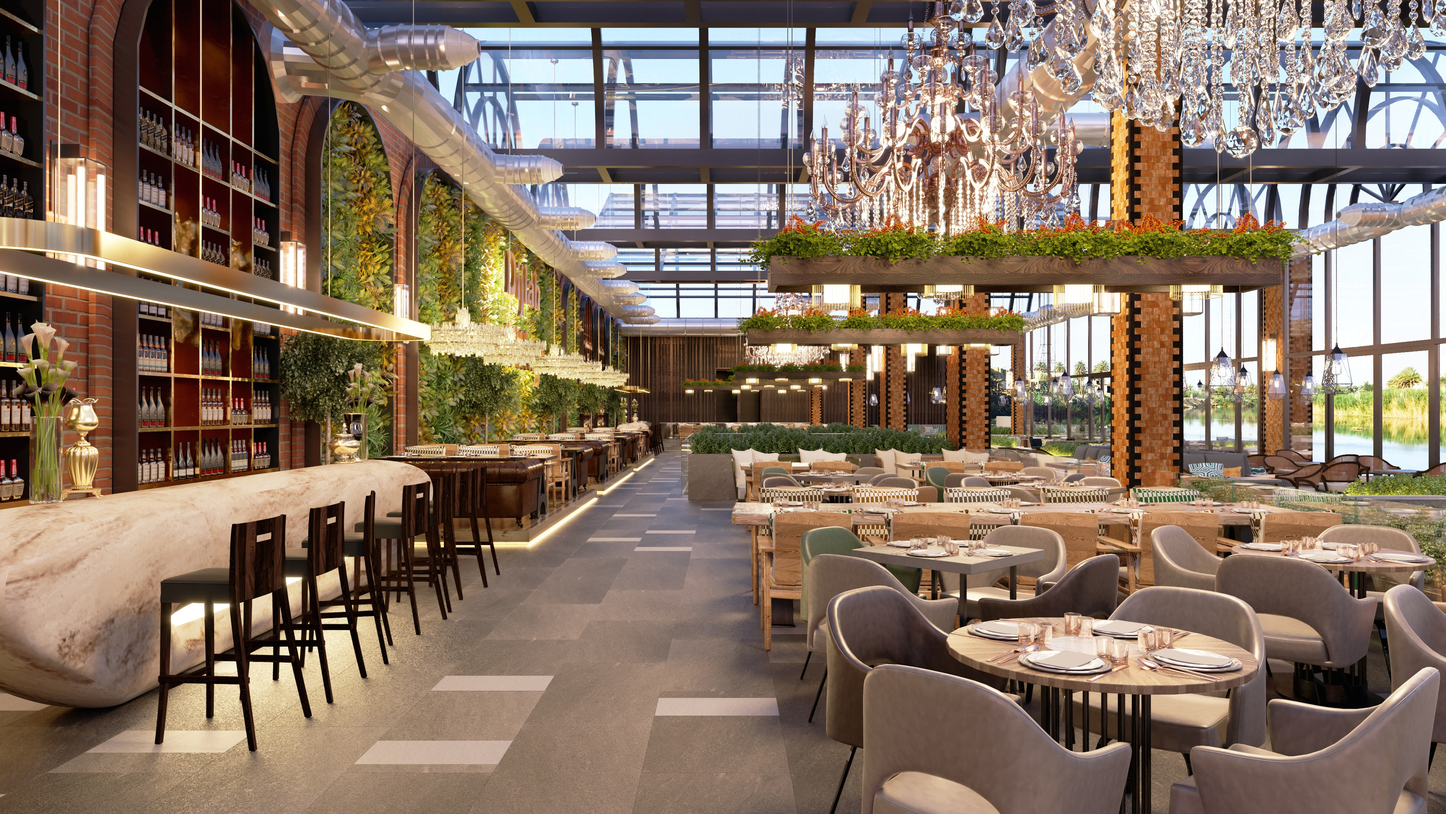
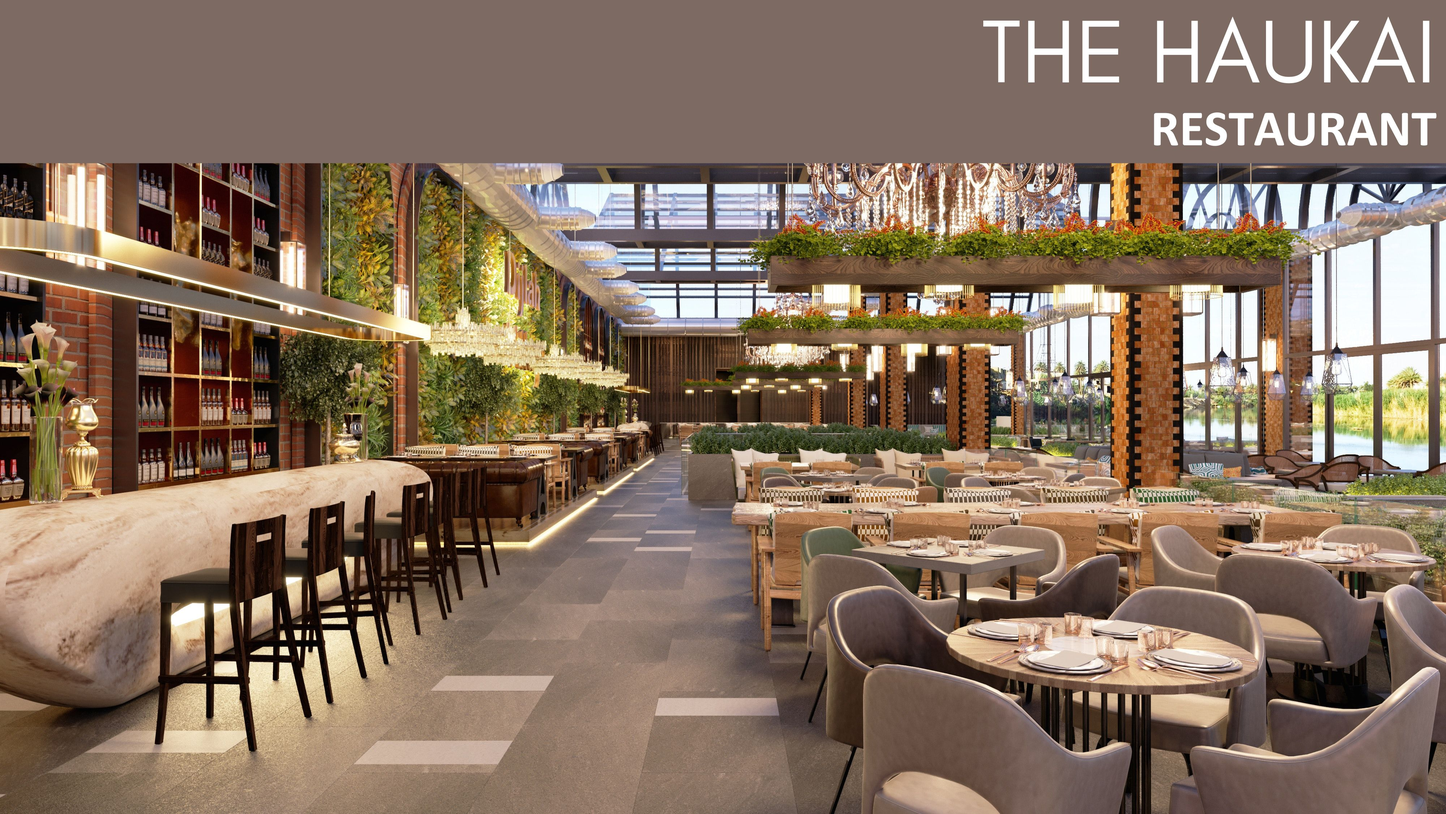
Added the restaurant name to the main image and updated the footer

Changed region(s): [[0.0, 0.0, 1.0, 0.2176]]

diff --git a/index.html b/index.html
@@ -119,8 +119,7 @@
      <!-- And here is our main footer that is
  used across all the pages of our website -->
      <footer class="footer">
-       <p>&copy;  Copyright 2022 by Matahi
- Historical Society. </p>
+       <p>&copy;  Copyright 2023 by The Haukai Restaurant </p>
      </footer>
     </div>
     

diff --git a/css/styles.css b/css/styles.css
@@ -99,8 +99,9 @@ h1 {
     font-size: small;
     
   }
-.footer { grid-area: 7 / 1 / 8 / 7;
-    background-color: #5da17f;
+.footer { 
+    background-color: #7d6b63;
     text-align: center;
-    padding: 10px;
+    color: white;
+    padding: 20px;
 }
